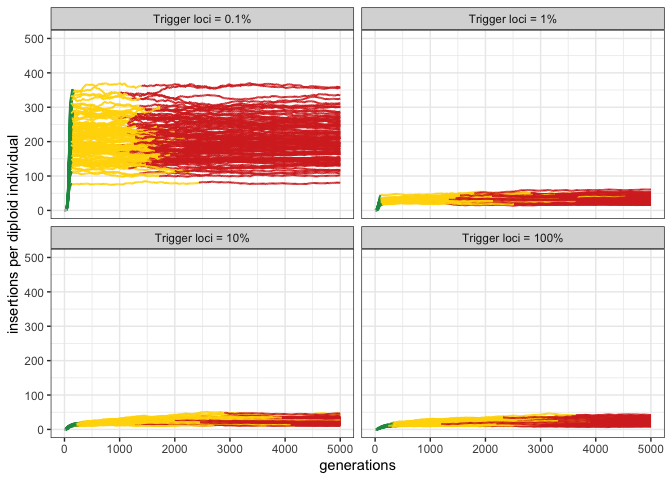
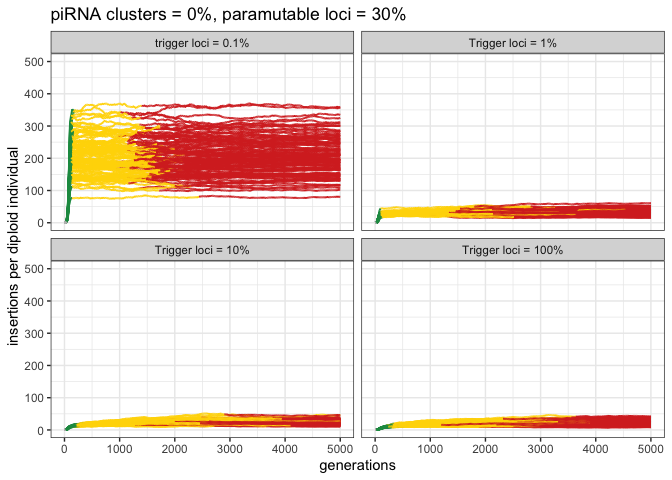
Figures update

diff --git a/Simulation/2022_08_09_Simulation_2_Trigger.md b/Simulation/2022_08_09_Simulation_2_Trigger.md
@@ -5,13 +5,19 @@ Almorò Scarpa
 ## Introduction
 
 In this simulation we compared the effects of different shares of
-trigger loci in a genome made of paramutable loci by 30%.
+trigger loci in a genome made of:
+
+-   30% paramutable loci & 0% piRNA clusters,
+
+-   10% paramutable loci & 0% piRNA clusters,
+
+-   10% paramutable loci & 3% piRNA clusters.
 
 ### Initial conditions:
 
-A population of 1000, 5 chromosomes of size 10 Mb, 30% of the genome as
-paramutable loci and an initial number of TEs in the population equal to
-100.
+A population of 1000, 5 chromosomes of size 10 Mb, 30/10% of the genome
+as paramutable loci and an initial number of TEs in the population equal
+to 100.
 
 We used 300 replicates for each simulation.
 
@@ -19,13 +25,29 @@ We used 300 replicates for each simulation.
 
 version: invadego0.2.1
 
--   seed p30_0: 1660131023489346000
+-   seed p30_0.1: 1660131023489346000
 
 -   seed p30_1: 1660120153070897000
 
 -   seed p30_10: 1660120153071664000
 
 -   seed p30_100: 1660120153072163000
+
+-   seed p10_0.1: 1673959003642697000
+
+-   seed p10_1: 1673984685519535000
+
+-   seed p10_10: 1673995071515068000
+
+-   seed p10_100: 1674003253780198000
+
+-   seed p3_10_0.1: 1674011129204327000
+
+-   seed p3_10_1: 1674018839215006000
+
+-   seed p3_10_10: 1674026215672953000
+
+-   seed p3_10_100: 1674032787174268000
 
 ### Commands for the simulation:
 
@@ -42,6 +64,25 @@ $tool --N 1000 --gen 5000 --genome mb:10,10,10,10,10 --rr 4,4,4,4,4 --rep 100 --
 $tool --N 1000 --gen 5000 --genome mb:10,10,10,10,10 --rr 4,4,4,4,4 --rep 100 --u 0.1 --basepop 100 --paramutation 10:1,3,5 --trigger 1:0 --steps 20 --sampleid p30_100 > $folder/2022_08_09_simulation_2_4
 
 cat 2022_08_09_simulation_2_1 2022_08_09_simulation_2_2 2022_08_09_simulation_2_3 2022_08_09_simulation_2_4 |grep -v "^Invade"|grep -v "^#" > 2022_08_09_Simulation_2_Trigger
+
+folder="/Users/ascarpa/Paramutations_TEs/Simulation/Raw"
+tool="/Users/ascarpa/invade-invadego/invadego023"
+
+$tool --N 1000 --gen 5000 --genome mb:10,10,10,10,10 --rr 4,4,4,4,4 --rep 100 --u 0.1 --basepop 100 --paramutation 10:1 --trigger 1000:1 --steps 20 --sampleid p10_0.1 > $folder/2023_01_17_simulation_2_5
+
+$tool --N 1000 --gen 5000 --genome mb:10,10,10,10,10 --rr 4,4,4,4,4 --rep 100 --u 0.1 --basepop 100 --paramutation 10:1 --trigger 100:1 --steps 20 --sampleid p10_1 > $folder/2023_01_17_simulation_2_6
+
+$tool --N 1000 --gen 5000 --genome mb:10,10,10,10,10 --rr 4,4,4,4,4 --rep 100 --u 0.1 --basepop 100 --paramutation 10:1 --trigger 10:1 --steps 20 --sampleid p10_10 > $folder/2023_01_17_simulation_2_7
+
+$tool --N 1000 --gen 5000 --genome mb:10,10,10,10,10 --rr 4,4,4,4,4 --rep 100 --u 0.1 --basepop 100 --paramutation 10:1 --trigger 1:0 --steps 20 --sampleid p10_100 > $folder/2023_01_17_simulation_2_8
+
+$tool --N 1000 --gen 5000 --genome mb:10,10,10,10,10 --cluster kb:300,300,300,300,300 --rr 4,4,4,4,4 --rep 100 --u 0.1 --basepop 100 --paramutation 10:1 --trigger 1000:1 --steps 20 --sampleid p3_10_0.1 > $folder/2023_01_17_simulation_2_9
+
+$tool --N 1000 --gen 5000 --genome mb:10,10,10,10,10 --cluster kb:300,300,300,300,300 --rr 4,4,4,4,4 --rep 100 --u 0.1 --basepop 100 --paramutation 10:1 --trigger 100:1 --steps 20 --sampleid p3_10_1 > $folder/2023_01_17_simulation_2_10
+
+$tool --N 1000 --gen 5000 --genome mb:10,10,10,10,10 --cluster kb:300,300,300,300,300 --rr 4,4,4,4,4 --rep 100 --u 0.1 --basepop 100 --paramutation 10:1 --trigger 10:1 --steps 20 --sampleid p3_10_10 > $folder/2023_01_17_simulation_2_11
+
+$tool --N 1000 --gen 5000 --genome mb:10,10,10,10,10 --cluster kb:300,300,300,300,300 --rr 4,4,4,4,4 --rep 100 --u 0.1 --basepop 100 --paramutation 10:1 --trigger 1:0 --steps 20 --sampleid p3_10_100 > $folder/2023_01_17_simulation_2_12
 ```
 
 ### Visualization in R
@@ -62,14 +103,13 @@ Visualization: comparing the simulations with the prediction
 p<-c("grey","#1a9850","#ffd700","#d73027")
 
 setwd("/Users/ascarpa/Paramutations_TEs/Simulation/Raw")
-
 df<-read.table("2022_08_09_Simulation_2_Trigger", fill = TRUE, sep = "\t")
+
 names(df)<-c("rep", "gen", "popstat", "fmale", "spacer_1", "fwte", "avw", "avtes", "avpopfreq", "fixed","spacer_2","phase","fwpirna","spacer_3","fwcli","avcli","fixcli","spacer_4","fwpar_yespi","fwpar_nopi",
              "avpar","fixpar","spacer_5","piori","orifreq","spacer 6", "sampleid")
 
 df$phase <- factor(df$phase, levels=c("rapi", "trig", "shot", "inac"))
 df$sampleid <- factor(df$sampleid, levels=c("p30_0.1", "p30_1", "p30_10","p30_100"))
-
 
 g<-ggplot()+
   geom_line(data=df,aes(x=gen,y=avtes,group=rep,color=phase),alpha=1,size=0.7)+
@@ -78,8 +118,9 @@ g<-ggplot()+
   theme(legend.position="none")+
   scale_colour_manual(values=p)+
   ylim(0,500)+
+  ggtitle("piRNA clusters = 0%, paramutable loci = 30%") +
   facet_wrap(~sampleid, labeller = labeller(sampleid = 
-                                                      c("p30_0.1" = "Trigger loci = 0.1%",
+                                                      c("p30_0.1" = "trigger loci = 0.1%",
                                                         "p30_1" = "Trigger loci = 1%",
                                                         "p30_10" = "Trigger loci = 10%",
                                                         "p30_100" = "Trigger loci = 100%")))
@@ -89,7 +130,67 @@ plot(g)
 
 ![](2022_08_09_Simulation_2_Trigger_files/figure-gfm/unnamed-chunk-3-1.png)<!-- -->
 
+``` r
+df_2<-read.table("2023_01_17_Simulation_2_Trigger_2", fill = TRUE, sep = "\t")
+names(df_2)<-c("rep", "gen", "popstat", "fmale", "spacer_1", "fwte", "avw", "min_w", "avtes", "avpopfreq",
+               "fixed","spacer_2", "phase", "fwpirna", "spacer_3", "fwcli", "avcli", "fixcli", "spacer_4",
+               "fwpar_yespi","fwpar_nopi", "avpar","fixpar","spacer_5","piori","orifreq","spacer 6", "sampleid")
+
+
+df_2$phase <- factor(df_2$phase, levels=c("rapi", "trig", "shot", "inac"))
+df_2$sampleid <- factor(df_2$sampleid, levels=c("p10_0.1", "p10_1", "p10_10","p10_100"))
+
+
+g_2<-ggplot()+
+  geom_line(data=df_2,aes(x=gen,y=avtes,group=rep,color=phase),alpha=1,size=0.7)+
+  xlab("generations")+
+  ylab("insertions per diploid individual")+
+  theme(legend.position="none")+
+  scale_colour_manual(values=p)+
+  ylim(0,500)+
+  ggtitle("piRNA clusters = 0%, paramutable loci = 10%") +
+  facet_wrap(~sampleid, labeller = labeller(sampleid = 
+                                              c("p10_0.1" = "Trigger loci = 0.1%",
+                                                "p10_1" = "Trigger loci = 1%",
+                                                "p10_10" = "Trigger loci = 10%",
+                                                "p10_100" = "Trigger loci = 100%")))
+
+plot(g_2)
+```
+
+![](2022_08_09_Simulation_2_Trigger_files/figure-gfm/unnamed-chunk-3-2.png)<!-- -->
+
+``` r
+df_3<-read.table("2023_01_17_Simulation_2_Trigger_3", fill = TRUE, sep = "\t")
+names(df_3)<-c("rep", "gen", "popstat", "fmale", "spacer_1", "fwte", "avw", "min_w", "avtes", "avpopfreq",
+               "fixed","spacer_2", "phase", "fwpirna", "spacer_3", "fwcli", "avcli", "fixcli", "spacer_4",
+               "fwpar_yespi","fwpar_nopi", "avpar","fixpar","spacer_5","piori","orifreq","spacer 6", "sampleid")
+
+
+df_3$phase <- factor(df_3$phase, levels=c("rapi", "trig", "shot", "inac"))
+df_3$sampleid <- factor(df_3$sampleid, levels=c("p3_10_0.1", "p3_10_1", "p3_10_10","p3_10_100"))
+
+
+g_3<-ggplot()+
+  geom_line(data=df_3,aes(x=gen,y=avtes,group=rep,color=phase),alpha=1,size=0.7)+
+  xlab("generations")+
+  ylab("insertions per diploid individual")+
+  theme(legend.position="none")+
+  scale_colour_manual(values=p)+
+  ylim(0,500)+
+  ggtitle("piRNA clusters = 3%, paramutable loci = 10%") +
+  facet_wrap(~sampleid, labeller = labeller(sampleid = 
+                                              c("p3_10_0.1" = "Trigger loci = 0.1%",
+                                                "p3_10_1" = "Trigger loci = 1%",
+                                                "p3_10_10" = "Trigger loci = 10%",
+                                                "p3_10_100" = "Trigger loci = 100%")))
+
+plot(g_3)
+```
+
+![](2022_08_09_Simulation_2_Trigger_files/figure-gfm/unnamed-chunk-3-3.png)<!-- -->
+
 ## Conclusions
 
 1% of the genome as trigger loci is enough to reduce the average number
-of transposable elements.
+of transposable elements both with 10% and 30% paramutable loci.
